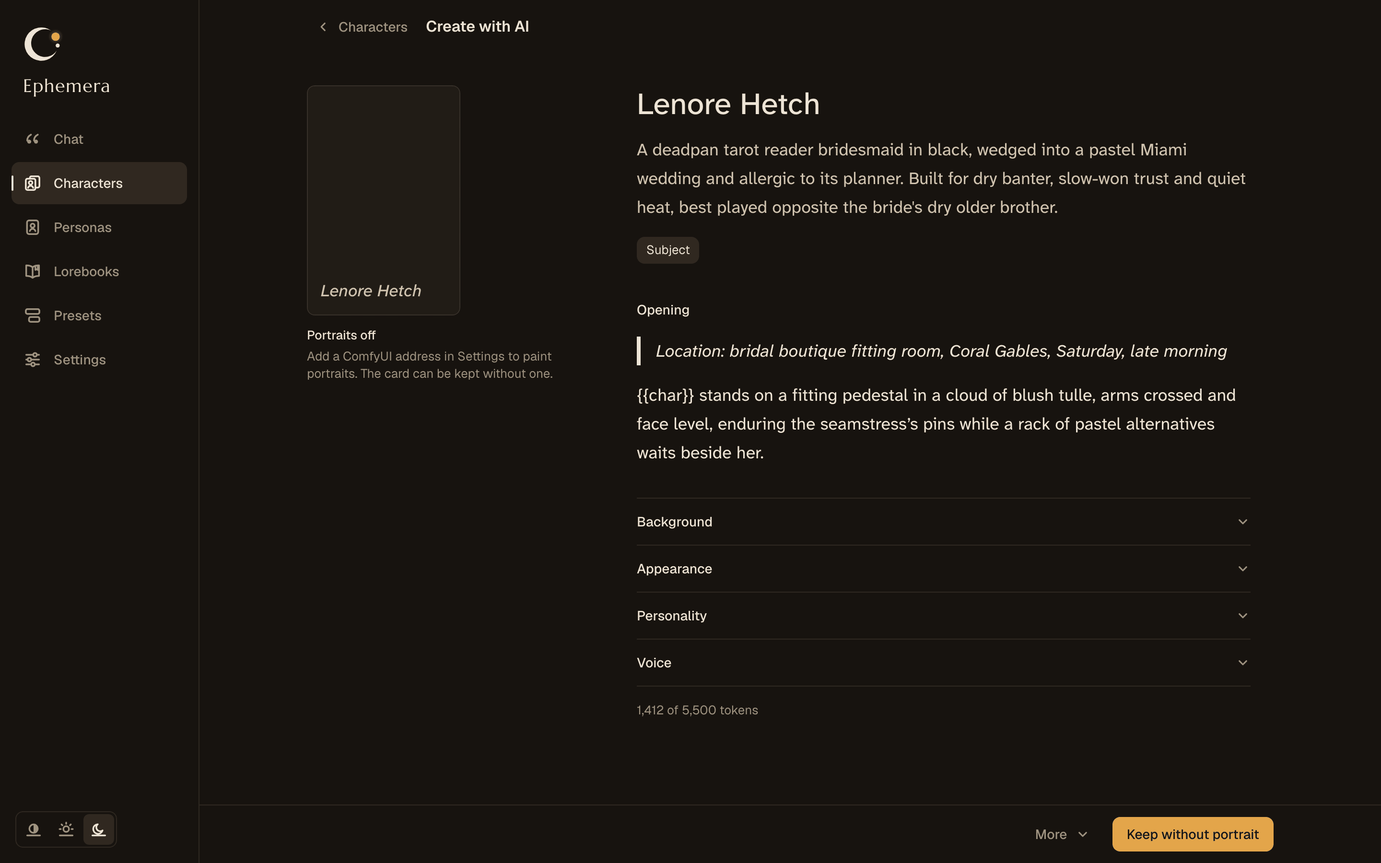
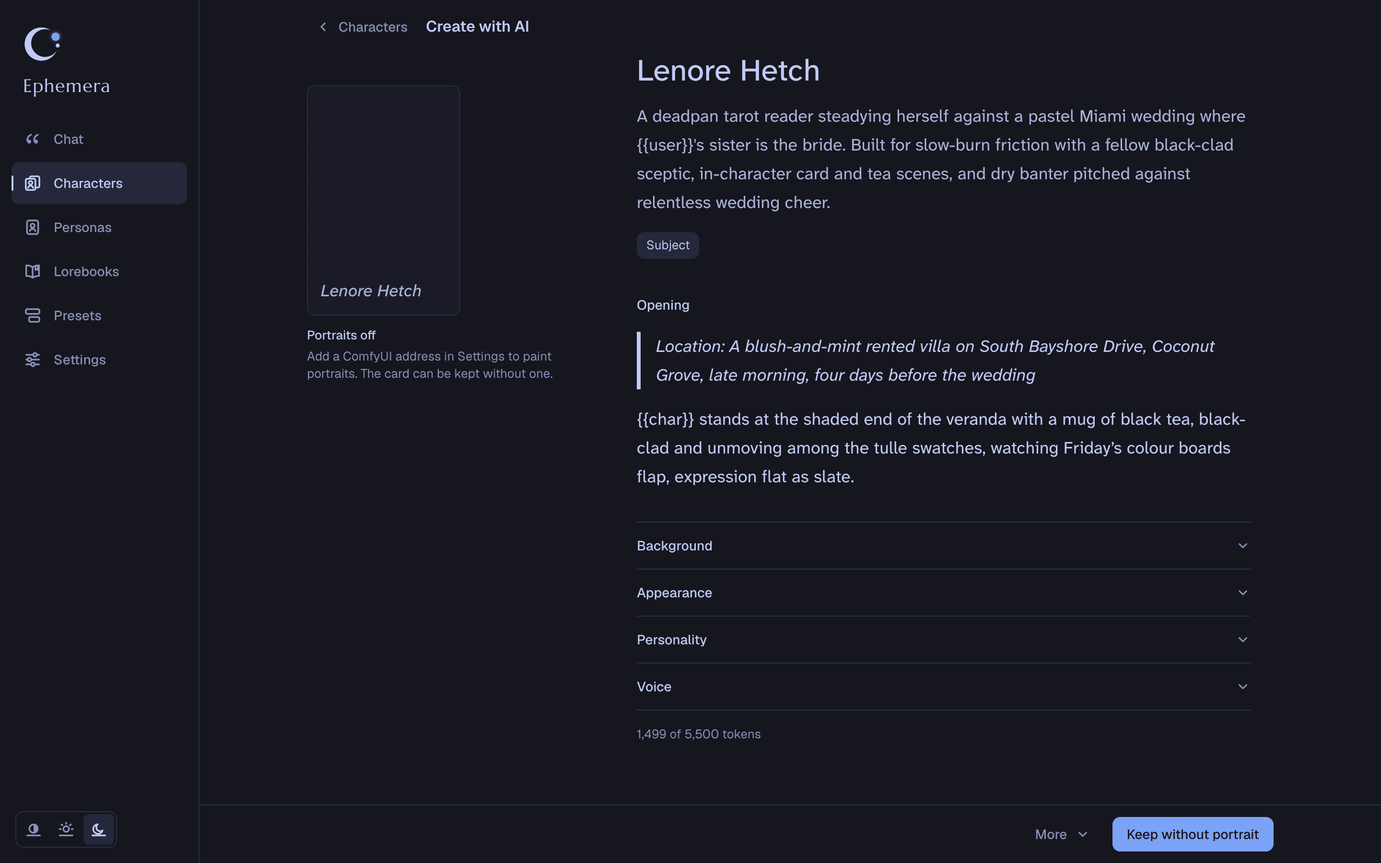
Make Tokyo Night the default palette
Makes Tokyo Night the default palette and retakes the README screenshots with it.

- New installations and new users start on Tokyo Night, Day by day and Night by night. Users who already chose a palette keep it, and Lamplight stays one click away in Settings > Appearance.
- The default needs no attribute, so Tokyo Night's colours now sit on the root, and the browser's theme colour and the plain portrait placeholder follow it.
- Making it the default surfaced contrast gaps that axe caught. Secondary text on selected rows and error text on hovered and selected rows now hold 4.5:1 in every built-in palette, and the contrast floors check those grounds. The colour changes are a few steps of lightness.
- The sheet's header title becomes fully opaque early in its scroll range, so a scroll that stops partway leaves it readable.
- All eight README screenshots are retaken from the running app on the new default, with the bundled example character and real model replies; badge colours follow the palette.

Checks: `bun run test:affected` (check and every e2e spec) passed; after rebasing onto main it passed again apart from the 5,000-entry lorebook timing spec, which passed on a quiet rerun. `bun run check` passed on the final commit. Deny-list scan clean.
Review: one cross-model pass with both finders on the full diff, verdict approve; 1 finding fixed (a comment line break), 0 declined.

diff --git a/apps/web/src/styles.css b/apps/web/src/styles.css
@@ -32,11 +32,42 @@
  * Palettes: every colour token, defined once per palette as a light-dark()
  * pair, so the theme picks the scheme and the palette only the colours.
  * `data-palette` on <html> (core PALETTES, saved in Settings) chooses one;
- * on a swatch it scopes one to the swatch. Lamplight, Ephemera's own, needs
- * no attribute. Every palette holds Lamplight's contrast floors in both
- * schemes (e2e/design.spec.ts).
+ * on a swatch it scopes one to the swatch. Tokyo Night, the default (core
+ * DEFAULT_PALETTE), needs no attribute, so its block comes first and every
+ * later one overrides it. Every palette holds Lamplight's contrast floors in
+ * both schemes (e2e/design.spec.ts).
  */
+/* Tokyo Night: Day by day, Night by night, a blue accent. */
 :root,
+[data-palette="tokyo-night"] {
+  --canvas-base: light-dark(#e1e2e7, #16161e);
+  --surface-base: light-dark(#e9e9ed, #1a1b26);
+  --surface-hover-base: light-dark(#d6d8e2, #222436);
+  --surface-pressed-base: light-dark(#c4c8da, #292e42);
+  --surface-selected-base: light-dark(#d0d3e2, #24283b);
+  --rush-base: light-dark(#c4c8da, #292e42);
+  --ink: light-dark(#343b58, #c0caf5);
+  --narration: light-dark(#414868, #a9b1d6);
+  --ink-action: light-dark(#454d6d, #969ec2);
+  --ink-thought: light-dark(#4b5b97, #838bb5);
+  --ink-narration: light-dark(#466376, #7999ad);
+  --reed: light-dark(#485890, #858fba);
+  --control-edge: light-dark(#7b7d97, #5d6697);
+  --dusk: light-dark(#2668cf, #7aa2f7);
+  --dusk-hover: light-dark(#1f5cbd, #8db0f9);
+  --dusk-line: light-dark(#2e7de9, #7aa2f7);
+  --on-dusk: light-dark(#f4f5f8, #16161e);
+  --ember: light-dark(#b60048, #f7768e);
+  --tone-rose: light-dark(#7e20bd, #bb9af7);
+  --tone-sage: light-dark(#425f23, #9ece6a);
+  --tone-iris: light-dark(#035d7d, #7dcfff);
+  --tone-mist: light-dark(#516290, #a9b1d6);
+  --error-surface: light-dark(#f0d7df, #3a1f2b);
+  --text-disabled: light-dark(#a1a6c5, #414868);
+  --scrim: light-dark(rgb(52 59 88 / 0.3), rgb(0 0 0 / 0.55));
+  --shadow-overlay: light-dark(rgb(52 59 88 / 0.14), rgb(0 0 0 / 0.5));
+}
+
 [data-palette="lamplight"] {
   /* Warm plaster by day, a lamplit room by night, one amber lamp. */
   --canvas-base: light-dark(#e6e2dc, #17130f);
@@ -93,13 +124,13 @@
   --ink-action: light-dark(#4e5168, #99a0bb);
   --ink-thought: light-dark(#5e6177, #878ea8);
   --ink-narration: light-dark(#57647a, #8898b0);
-  --reed: light-dark(#5d6076, #8893ad);
+  --reed: light-dark(#5a5d73, #8b96b0);
   --control-edge: light-dark(#81828d, #6c7086);
   --dusk: light-dark(#8839ef, #cba6f7);
   --dusk-hover: light-dark(#7a2ee0, #d7b9fa);
   --dusk-line: light-dark(#8839ef, #cba6f7);
   --on-dusk: light-dark(#eff1f5, #11111b);
-  --ember: light-dark(#c50434, #f38ba8);
+  --ember: light-dark(#bf002f, #f38ba8);
   --tone-rose: light-dark(#9c287e, #f5c2e7);
   --tone-sage: light-dark(#1a6903, #a6e3a1);
   --tone-iris: light-dark(#024ad9, #89b4fa);
@@ -123,7 +154,7 @@
   --ink-action: light-dark(#565270, #a19dba);
   --ink-thought: light-dark(#66627f, #8f8ba9);
   --ink-narration: light-dark(#576978, #849aa3);
-  --reed: light-dark(#696583, #8f8aa8);
+  --reed: light-dark(#65617f, #938eac);
   --control-edge: light-dark(#888593, #6e6a86);
   --dusk: light-dark(#d7827e, #ebbcba);
   --dusk-hover: light-dark(#cc716d, #f2cbc9);
@@ -153,13 +184,13 @@
   --ink-action: light-dark(#495265, #c4cad4);
   --ink-thought: light-dark(#586277, #b0b7c4);
   --ink-narration: light-dark(#516675, #a5b9bf);
-  --reed: light-dark(#566175, #b6becc);
+  --reed: light-dark(#535e72, #bbc3d1);
   --control-edge: light-dark(#778499, #8092ab);
   --dusk: light-dark(#4f72a0, #88c0d0);
   --dusk-hover: light-dark(#45679a, #9acbd9);
   --dusk-line: light-dark(#4f72a0, #88c0d0);
   --on-dusk: light-dark(#f4f7fc, #2e3440);
-  --ember: light-dark(#954c55, #e89f83);
+  --ember: light-dark(#904751, #fbb194);
   --tone-rose: light-dark(#695567, #e6c0df);
   --tone-sage: light-dark(#515f3f, #b9d4a2);
   --tone-iris: light-dark(#3c5f76, #afcfef);
@@ -183,13 +214,13 @@
   --ink-action: light-dark(#564f4b, #b4a58a);
   --ink-thought: light-dark(#685e56, #a3947e);
   --ink-narration: light-dark(#5d635b, #92a091);
-  --reed: light-dark(#685d55, #a8997f);
+  --reed: light-dark(#645951, #ab9c82);
   --control-edge: light-dark(#8a7f70, #7e7166);
   --dusk: light-dark(#af3a03, #fe8019);
   --dusk-hover: light-dark(#9a3302, #ff9440);
   --dusk-line: light-dark(#af3a03, #fe8019);
   --on-dusk: light-dark(#fbf1c7, #1d2021);
-  --ember: light-dark(#9d0006, #fe5a45);
+  --ember: light-dark(#9d0006, #ff715a);
   --tone-rose: light-dark(#893c6e, #db8ea3);
   --tone-sage: light-dark(#5a5c04, #b8bb26);
   --tone-iris: light-dark(#065f71, #8bada0);
@@ -198,36 +229,6 @@
   --text-disabled: light-dark(#a89984, #665c54);
   --scrim: light-dark(rgb(60 56 54 / 0.3), rgb(0 0 0 / 0.55));
   --shadow-overlay: light-dark(rgb(60 56 54 / 0.14), rgb(0 0 0 / 0.5));
-}
-
-/* Tokyo Night: Day by day, Night by night, a blue accent. */
-[data-palette="tokyo-night"] {
-  --canvas-base: light-dark(#e1e2e7, #16161e);
-  --surface-base: light-dark(#e9e9ed, #1a1b26);
-  --surface-hover-base: light-dark(#d6d8e2, #222436);
-  --surface-pressed-base: light-dark(#c4c8da, #292e42);
-  --surface-selected-base: light-dark(#d0d3e2, #24283b);
-  --rush-base: light-dark(#c4c8da, #292e42);
-  --ink: light-dark(#343b58, #c0caf5);
-  --narration: light-dark(#414868, #a9b1d6);
-  --ink-action: light-dark(#454d6d, #969ec2);
-  --ink-thought: light-dark(#4b5b97, #838bb5);
-  --ink-narration: light-dark(#466376, #7999ad);
-  --reed: light-dark(#4a5a92, #828cb7);
-  --control-edge: light-dark(#7b7d97, #5d6697);
-  --dusk: light-dark(#2668cf, #7aa2f7);
-  --dusk-hover: light-dark(#1f5cbd, #8db0f9);
-  --dusk-line: light-dark(#2e7de9, #7aa2f7);
-  --on-dusk: light-dark(#f4f5f8, #16161e);
-  --ember: light-dark(#bf024f, #f7768e);
-  --tone-rose: light-dark(#7e20bd, #bb9af7);
-  --tone-sage: light-dark(#425f23, #9ece6a);
-  --tone-iris: light-dark(#035d7d, #7dcfff);
-  --tone-mist: light-dark(#516290, #a9b1d6);
-  --error-surface: light-dark(#f0d7df, #3a1f2b);
-  --text-disabled: light-dark(#a1a6c5, #414868);
-  --scrim: light-dark(rgb(52 59 88 / 0.3), rgb(0 0 0 / 0.55));
-  --shadow-overlay: light-dark(rgb(52 59 88 / 0.14), rgb(0 0 0 / 0.5));
 }
 
 :root {
@@ -1290,7 +1291,7 @@ details[open] > summary .disclosure-chevron {
   }
 }
 
-/* The sheet's name joins its header once the name field scrolls beneath it. */
+/* A header element rising into view as its source scrolls away. */
 @keyframes title-in {
   from {
     opacity: 0;
@@ -1302,10 +1303,29 @@ details[open] > summary .disclosure-chevron {
   }
 }
 
+/*
+ * The sheet's name joins its header once the name field scrolls beneath it.
+ * It is fully opaque early in its range, so a scroll that comes to rest
+ * partway leaves a readable title; the rise takes the whole range.
+ */
+@keyframes name-in {
+  from {
+    opacity: 0;
+    translate: 0 var(--rise);
+  }
+  40% {
+    opacity: 1;
+  }
+  to {
+    opacity: 1;
+    translate: 0 0;
+  }
+}
+
 /* Hidden until scrolling drives it in; a sheet too short to scroll keeps its name in the field. */
 @utility title-in {
   opacity: 0;
-  animation: title-in linear both;
+  animation: name-in linear both;
   animation-timeline: --thread;
   animation-range: 3rem 5.5rem;
 }

diff --git a/e2e/settings.spec.ts b/e2e/settings.spec.ts
@@ -56,8 +56,9 @@ async function settingSwitch(
   return control;
 }
 
-const LIGHT = "rgb(230, 226, 220)";
-const DARK = "rgb(23, 19, 15)";
+/** Tokyo Night, the default palette: its canvas by day and by night. */
+const LIGHT = "rgb(225, 226, 231)";
+const DARK = "rgb(22, 22, 30)";
 
 test("the theme follows the system unless overridden", async ({ page }) => {
   await page.emulateMedia({ colorScheme: "light" });
@@ -154,7 +155,7 @@ test("a palette recolours the app in either scheme and is painted onto the app s
   const palettes = () => page.getByRole("radiogroup", { name: "Palette", exact: true });
   await page.emulateMedia({ colorScheme: "light" });
   await page.goto("/settings");
-  await expect(palettes().getByRole("radio", { name: "Lamplight" })).toBeChecked();
+  await expect(palettes().getByRole("radio", { name: "Tokyo Night" })).toBeChecked();
 
   await palettes().getByRole("radio", { name: "Nord" }).click();
   await expect.poll(() => canvas(page)).toBe(NORD_LIGHT);
@@ -167,7 +168,7 @@ test("a palette recolours the app in either scheme and is painted onto the app s
   expect(await canvas(page)).toBe(NORD_DARK);
   await expect(palettes().getByRole("radio", { name: "Nord" })).toBeChecked();
 
-  await palettes().getByRole("radio", { name: "Lamplight" }).click();
+  await palettes().getByRole("radio", { name: "Tokyo Night" }).click();
   await expect.poll(() => canvas(page)).toBe(DARK);
   await expect.poll(shellPalette).toBe(false);
 });
@@ -210,7 +211,7 @@ test("a tab that started on the fallback settings takes the saved theme and pale
       "aria-pressed",
       "true",
     );
-    await expect(palettes.getByRole("radio", { name: "Lamplight" })).toBeChecked();
+    await expect(palettes.getByRole("radio", { name: "Tokyo Night" })).toBeChecked();
     // Marks this document, so the recovery below is shown without a reload.
     await page.evaluate(() => {
       (window as unknown as { __sameDocument: boolean }).__sameDocument = true;
@@ -375,7 +376,7 @@ test("a custom palette starts from a built-in, warns, saves, paints before scrip
   await expect(own().getByRole("radio", { name: "Harbour" })).toHaveCount(0);
   await expect.poll(async () => (await shell()).includes("/api/palettes.css")).toBe(false);
 
-  await palettes().getByRole("radio", { name: "Lamplight" }).click();
+  await palettes().getByRole("radio", { name: "Tokyo Night" }).click();
   await expect.poll(() => canvas(page)).toBe(LIGHT);
 });
 

diff --git a/packages/core/src/palettes.ts b/packages/core/src/palettes.ts
@@ -8,7 +8,8 @@ import { HIGHLIGHT_TONES } from "./preset/highlight.ts";
 
 /**
  * The colour palette, each with a light and a dark scheme the theme picks
- * between; colours only, never layout or type. Lamplight is Ephemera's own.
+ * between; colours only, never layout or type. Lamplight is Ephemera's own;
+ * Tokyo Night is the default.
  */
 export const PALETTES = [
   "lamplight",
@@ -21,7 +22,7 @@ export const PALETTES = [
 export type Palette = (typeof PALETTES)[number];
 
 /** The palette a new installation starts on; it needs no `data-palette` attribute. */
-export const DEFAULT_PALETTE = "lamplight" satisfies Palette;
+export const DEFAULT_PALETTE = "tokyo-night" satisfies Palette;
 
 /** The player's palettes, one per slot. */
 const CUSTOM_PALETTES = ["custom-1", "custom-2", "custom-3"] as const;
@@ -208,11 +209,19 @@ export const CONTRAST_FLOORS: readonly {
   { role: "ink-action", grounds: on("canvas", "surface"), floor: 6 },
   { role: "ink-thought", grounds: on("canvas", "surface"), floor: 4.8 },
   { role: "ink-narration", grounds: on("canvas", "surface"), floor: 4.8 },
-  { role: "reed", grounds: on("canvas", "surface", "surface-hover"), floor: 4.5 },
+  {
+    role: "reed",
+    grounds: on("canvas", "surface", "surface-hover", "surface-selected"),
+    floor: 4.5,
+  },
   { role: "control-edge", grounds: on("canvas", "surface"), floor: 3 },
   { role: "dusk-line", grounds: on("canvas", "surface"), floor: 3 },
   { role: "on-dusk", grounds: on("dusk", "dusk-hover"), floor: 4.5 },
-  { role: "ember", grounds: on("canvas", "surface", "error-surface"), floor: 4.5 },
+  {
+    role: "ember",
+    grounds: on("canvas", "surface", "surface-hover", "surface-selected", "error-surface"),
+    floor: 4.5,
+  },
   // Mist is the ink alone, with no wash (styles.css), so only the plain grounds apply.
   ...HIGHLIGHT_TONES.map((tone) => ({
     role: `tone-${tone}` as const,

diff --git a/e2e/design.spec.ts b/e2e/design.spec.ts
@@ -1909,7 +1909,7 @@ for (const scheme of ["light", "dark"] as const) {
       const { canvas, lowest } = await page.evaluate(
         ({ id, floors, wash }) => {
           const root = document.documentElement;
-          if (id === "lamplight") delete root.dataset.palette;
+          if (id === "tokyo-night") delete root.dataset.palette;
           else if (id !== null) root.dataset.palette = id;
           // Every colour as `color(srgb r g b)`, channels 0 to 1, whatever its own form.
           const srgb = (color: string) => {
@@ -1948,7 +1948,7 @@ for (const scheme of ["light", "dark"] as const) {
       }
       canvases.add(canvas);
     }
-    // Each palette applied its own colours, rather than falling back to Lamplight's.
+    // Each palette applied its own colours, rather than falling back to the default's.
     expect(canvases.size).toBe(ids.length);
   });
 }

diff --git a/apps/server/test/palettes.test.ts b/apps/server/test/palettes.test.ts
@@ -64,14 +64,14 @@ describe("custom palette store", () => {
   it("refuses to choose an empty slot, as a missing reference", () => {
     const { stores } = setup();
     expect(stores.settings.update({ palette: "custom-2" })).toBeUndefined();
-    expect(stores.settings.get().palette).toBe("lamplight");
+    expect(stores.settings.get().palette).toBe("tokyo-night");
     stores.palettes.create(2, palette());
     expect(stores.settings.update({ palette: "custom-2" })?.palette).toBe("custom-2");
   });
 
   it.each([
     ["its built-in base", "nord", "nord"],
-    ["Lamplight when its base is custom", "custom-1", "lamplight"],
+    ["the default when its base is custom", "custom-1", "tokyo-night"],
   ] as const)(
     "returns the settings to %s when the chosen palette is deleted",
     (_case, base, after) => {

diff --git a/apps/web/index.html b/apps/web/index.html
@@ -4,8 +4,8 @@
     <meta charset="UTF-8" />
     <meta name="viewport" content="width=device-width, initial-scale=1, viewport-fit=cover, interactive-widget=resizes-content" />
     <meta name="color-scheme" content="light dark" />
-    <meta name="theme-color" media="(prefers-color-scheme: light)" content="#e6e2dc" />
-    <meta name="theme-color" media="(prefers-color-scheme: dark)" content="#17130f" />
+    <meta name="theme-color" media="(prefers-color-scheme: light)" content="#e1e2e7" />
+    <meta name="theme-color" media="(prefers-color-scheme: dark)" content="#16161e" />
     <link rel="icon" href="/favicon.ico" sizes="32x32" />
     <link rel="icon" href="/favicon.svg" type="image/svg+xml" />
     <link rel="apple-touch-icon" href="/apple-touch-icon.png" />

diff --git a/apps/web/auth/renewed.html b/apps/web/auth/renewed.html
@@ -4,8 +4,8 @@
     <meta charset="UTF-8" />
     <meta name="viewport" content="width=device-width, initial-scale=1, viewport-fit=cover" />
     <meta name="color-scheme" content="light dark" />
-    <meta name="theme-color" media="(prefers-color-scheme: light)" content="#e6e2dc" />
-    <meta name="theme-color" media="(prefers-color-scheme: dark)" content="#17130f" />
+    <meta name="theme-color" media="(prefers-color-scheme: light)" content="#e1e2e7" />
+    <meta name="theme-color" media="(prefers-color-scheme: dark)" content="#16161e" />
     <link rel="icon" href="/favicon.ico" sizes="32x32" />
     <link rel="icon" href="/favicon.svg" type="image/svg+xml" />
     <link rel="apple-touch-icon" href="/apple-touch-icon.png" />

diff --git a/apps/server/src/persistence/palettes.ts b/apps/server/src/persistence/palettes.ts
@@ -18,8 +18,8 @@ import type { CustomPaletteStore } from "./store.ts";
  * replacing never creates, and replacing or deleting names the save it acts
  * on (`updatedAt`), so a tab whose list is behind another's cannot overwrite
  * or delete a palette it has not seen. Deleting the palette the settings
- * choose returns them to its built-in base, or to Lamplight, in the same
- * transaction.
+ * choose returns them to its built-in base, or to the default palette, in
+ * the same transaction.
  */
 export function createCustomPaletteStore(db: Db): CustomPaletteStore {
   const get = (slot: CustomSlot): CustomPalette | undefined =>

diff --git a/apps/server/src/persistence/schema.ts b/apps/server/src/persistence/schema.ts
@@ -312,7 +312,10 @@ export const settings = sqliteTable(
   {
     id: integer().primaryKey(),
     theme: text().$type<Theme>().notNull(),
-    /** A core palette id or a saved custom slot's; existing rows keep Ephemera's own. */
+    /**
+     * A core palette id or a saved custom slot's. The SQL default filled rows
+     * from before the column with Lamplight; a new row takes core DEFAULT_PALETTE.
+     */
     palette: text().$type<PaletteChoice>().notNull().default("lamplight"),
     model: text(),
     /** The model that starts image prompts; null uses each surface's own default. */

diff --git a/apps/server/src/persistence/store.ts b/apps/server/src/persistence/store.ts
@@ -289,7 +289,7 @@ export interface CustomPaletteStore {
   ): CustomPalette | "missing" | "changed";
   /**
    * Removes the palette saved at `updatedAt`; settings that chose it return
-   * to its built-in base or Lamplight. "missing" or "changed" as for replace.
+   * to its built-in base or the default palette. "missing" or "changed" as for replace.
    */
   delete(slot: CustomSlot, updatedAt: number): "deleted" | "missing" | "changed";
 }

diff --git a/apps/server/src/images.ts b/apps/server/src/images.ts
@@ -35,7 +35,7 @@ export const IMAGE_LIMITS = {
    */
   vision: { width: 1024, height: 1024, quality: 80, worstCaseBytes: 800_000 },
   /** Image of a PNG export for a character without a portrait. */
-  placeholder: { width: 512, height: 768, background: "#e6e2dc" },
+  placeholder: { width: 512, height: 768, background: "#e1e2e7" },
 } as const;
 
 const ALLOWED_FORMATS = new Set(["png", "jpeg", "webp"]);

diff --git a/docs/ARCHITECTURE.md b/docs/ARCHITECTURE.md
@@ -63,7 +63,7 @@ Major versions are architectural choices; exact versions live in
 | Dates | dayjs with `utc`, `timezone`, `duration` and `relativeTime` | Date macros, UTC offsets and relative differences in `packages/core`; naive dates use the browser's zone, including DST. It reaches the browser in the shared API chunk |
 | API | Hono 4 with `@hono/bun`, Zod 4 | Validated routes, streaming, typed RPC client, static SPA |
 | LLM | AI SDK 7, `@ai-sdk/openai-compatible` | Streaming, abort, reasoning parts, provider quirks |
-| Storage | `bun:sqlite`, Drizzle ORM, `node:crypto` | One SQLite database per user, in memory while in use and encrypted at rest (§ Users and storage): characters, personas and their character bindings, prompt presets with their Author's Note (a nullable column; a row without one reads as the default) and sampler presets, library lorebooks (`lorebooks`: a name and the whole book in the embedded book's schema and limits, its compact JSON within the card limit, the book's own `name` mirroring the row's, and the counts the library lists, written with the book and brought up to date when the database opens, so listing never parses a book) and their links to characters (`character_lorebooks`: at most `LOREBOOK_LINKS`, 8, per character, each at a position; a link is appended after the last in one transaction, linking again changes nothing, unlinking leaves the others' positions, deleting either side removes the link, and duplicating a character copies its links), events (`events`: at most `EVENT_LIMITS.events`, 200, each a one-line text, a chance, a cooldown in replies, an on/off flag and a scope of all cards or chosen character ids and tags, the ids held without a reference so an unknown one matches nothing; definitions only, with no column for which event fired where), a character's memory (`memory_notebooks`: one row per character, keyed by it, with the on/off flag, the situation, relationships, facts and threads, and `opening`, the next chat's opening (at most `MEMORY_LIMITS.opening`, 600 characters, empty when there is none); a PATCH carries the notebook whole, and one without the notebook or the opening keeps the stored one; `memories`: at most `MEMORY_LIMITS.episodes`, 2,000, per character, each an episode or a chapter with a per-character `seq`, a title, a summary, cues, how many turns it covered, the chapter that absorbed it and a pinned flag; both cascade with their character, and neither has a column for the turns, the chat or the span a memory came from), characters' cast sheets (`cast_sheets`: one row per character, keyed by it and cascading with it, holding the card fingerprint it was read at, its entries' fixed records without any state, at most `CAST_LIMITS.sheetEntries`, 8, and a `revision` each write increments; a chat's register has no column), up to three custom palettes (`custom_palettes`: by slot 1 to 3, a name, the palette it started from, its colours and the base's by scheme, the roles set by hand; deleting the chosen one returns the setting to its built-in base, or Lamplight, in the same transaction), the user's imported ComfyUI workflows (`workflows`: at most `WORKFLOW_LIMITS.workflows`, 24, each a name unique regardless of ASCII case, an image model family, the finalized API template with `{{prompt}}` in the prompt's place, its node count and a `revision`; deleting the one the settings choose returns them to the default workflow in the same transaction), one row of UI settings (theme, colour palette, model, image prompt model (null leaves each image prompt on its surface's default), chosen character and persona, default persona, chosen presets, context windows the owner set for models the provider reports none for, the owner's context limit per model, the ComfyUI address and workflow for card portraits, memory's model, effort and sizes, the cast calls' model and effort (null follows memory's), and `memoryOpening`, whether a new chat opens on the memory's opening, a column with SQL default true; references clear themselves when their target is deleted), and portraits of characters and personas in one table (each row belongs to exactly one owner and holds its dimensions, version and WebP thumbnail, and names the encrypted file under the user's folder that holds its PNG), so an entity and its portrait row change in one transaction, and a portrait's file is durable before any database image that names it. One store per entity, each parsing its core schema on every write. Characters, personas, presets, lorebooks, events, notebooks, memories and workflows carry a `revision` that each update increments; a PATCH names the revision its sheet loaded, and a stale one is refused with 409 and the current revision, checked and written in one transaction, so a tab behind another never overwrites it unasked (the sheet offers Reload or Keep mine, which saves the tab's whole version). A stale PATCH that would change nothing, such as a retry after a lost answer, is answered as saved and writes nothing; after a save whose answer was lost, the sheet sends it again alone, as it was, before newer edits, so it learns the revision instead of meeting a false conflict. drizzle-kit runs on demand (`bun run db:generate`, from outside the workspace) to generate migrations; the server applies them when a user's database opens, with foreign keys off (Drizzle runs them in one transaction, where a migration's own `PRAGMA foreign_keys=OFF` does nothing, so a table rebuild would cascade), checks the result with `PRAGMA foreign_key_check` and only then turns enforcement on. A migration therefore never relies on a cascade. At start the server verifies migrations and the native data upgrade, then durably encrypts every changed database before listening; failure refuses startup. The deploy's pre-migration snapshot is the way back |
+| Storage | `bun:sqlite`, Drizzle ORM, `node:crypto` | One SQLite database per user, in memory while in use and encrypted at rest (§ Users and storage): characters, personas and their character bindings, prompt presets with their Author's Note (a nullable column; a row without one reads as the default) and sampler presets, library lorebooks (`lorebooks`: a name and the whole book in the embedded book's schema and limits, its compact JSON within the card limit, the book's own `name` mirroring the row's, and the counts the library lists, written with the book and brought up to date when the database opens, so listing never parses a book) and their links to characters (`character_lorebooks`: at most `LOREBOOK_LINKS`, 8, per character, each at a position; a link is appended after the last in one transaction, linking again changes nothing, unlinking leaves the others' positions, deleting either side removes the link, and duplicating a character copies its links), events (`events`: at most `EVENT_LIMITS.events`, 200, each a one-line text, a chance, a cooldown in replies, an on/off flag and a scope of all cards or chosen character ids and tags, the ids held without a reference so an unknown one matches nothing; definitions only, with no column for which event fired where), a character's memory (`memory_notebooks`: one row per character, keyed by it, with the on/off flag, the situation, relationships, facts and threads, and `opening`, the next chat's opening (at most `MEMORY_LIMITS.opening`, 600 characters, empty when there is none); a PATCH carries the notebook whole, and one without the notebook or the opening keeps the stored one; `memories`: at most `MEMORY_LIMITS.episodes`, 2,000, per character, each an episode or a chapter with a per-character `seq`, a title, a summary, cues, how many turns it covered, the chapter that absorbed it and a pinned flag; both cascade with their character, and neither has a column for the turns, the chat or the span a memory came from), characters' cast sheets (`cast_sheets`: one row per character, keyed by it and cascading with it, holding the card fingerprint it was read at, its entries' fixed records without any state, at most `CAST_LIMITS.sheetEntries`, 8, and a `revision` each write increments; a chat's register has no column), up to three custom palettes (`custom_palettes`: by slot 1 to 3, a name, the palette it started from, its colours and the base's by scheme, the roles set by hand; deleting the chosen one returns the setting to its built-in base, or Tokyo Night, the default, in the same transaction), the user's imported ComfyUI workflows (`workflows`: at most `WORKFLOW_LIMITS.workflows`, 24, each a name unique regardless of ASCII case, an image model family, the finalized API template with `{{prompt}}` in the prompt's place, its node count and a `revision`; deleting the one the settings choose returns them to the default workflow in the same transaction), one row of UI settings (theme, colour palette, model, image prompt model (null leaves each image prompt on its surface's default), chosen character and persona, default persona, chosen presets, context windows the owner set for models the provider reports none for, the owner's context limit per model, the ComfyUI address and workflow for card portraits, memory's model, effort and sizes, the cast calls' model and effort (null follows memory's), and `memoryOpening`, whether a new chat opens on the memory's opening, a column with SQL default true; references clear themselves when their target is deleted), and portraits of characters and personas in one table (each row belongs to exactly one owner and holds its dimensions, version and WebP thumbnail, and names the encrypted file under the user's folder that holds its PNG), so an entity and its portrait row change in one transaction, and a portrait's file is durable before any database image that names it. One store per entity, each parsing its core schema on every write. Characters, personas, presets, lorebooks, events, notebooks, memories and workflows carry a `revision` that each update increments; a PATCH names the revision its sheet loaded, and a stale one is refused with 409 and the current revision, checked and written in one transaction, so a tab behind another never overwrites it unasked (the sheet offers Reload or Keep mine, which saves the tab's whole version). A stale PATCH that would change nothing, such as a retry after a lost answer, is answered as saved and writes nothing; after a save whose answer was lost, the sheet sends it again alone, as it was, before newer edits, so it learns the revision instead of meeting a false conflict. drizzle-kit runs on demand (`bun run db:generate`, from outside the workspace) to generate migrations; the server applies them when a user's database opens, with foreign keys off (Drizzle runs them in one transaction, where a migration's own `PRAGMA foreign_keys=OFF` does nothing, so a table rebuild would cascade), checks the result with `PRAGMA foreign_key_check` and only then turns enforcement on. A migration therefore never relies on a cascade. At start the server verifies migrations and the native data upgrade, then durably encrypts every changed database before listening; failure refuses startup. The deploy's pre-migration snapshot is the way back |
 | Cards | Own PNG chunk walker, own Zod schemas | Native character JSON uses a strict versioned envelope. Native PNG reads and writes one base64 `ephemera` text chunk. Import-only readers accept foreign V2/V3 `ccv3` then `chara` chunks. Native data takes precedence; duplicates, unsupported versions, mixed shapes and malformed native markers fail closed. Recognized foreign fields become typed camelCase data and unknown metadata is dropped with an import report. Import fits lorebook keywords, names and tags to their limits. Compact serialization and UTF-8 limits live in `packages/core`. The bounded PNG walker strips compressed text before portrait decoding and validates at most one ICC profile within a 1 MiB inflation limit; portrait output strips metadata |
 | Images | sharp | Portraits: only the PNG, JPEG and WebP loaders unblocked, header-checked pixel cap, re-encoded to PNG plus a WebP thumbnail, metadata stripped; a JPEG vision copy for model calls; prebuilt for linux-arm64 |
 | Lorebook keys | re2js, `Intl.Segmenter` | A character book's regex keys run only on re2js, a linear-time RE2 port, never on the native `RegExp` (card patterns are untrusted; JavaScriptCore's backtracking limit answers "no match" instead of failing). Plain keys match with `includes`; whole words by `Intl.Segmenter` boundaries or punctuation beside the key, so scripts without spaces and possessives work. Every assembly's scan has a deterministic work bound, and entry text is filled and counted only up to the budget's cutoff, within a per-assembly allowance; entries past either are reported, not scanned. A request assembles at most `MEMORY_LIMITS.held` plus three times (Memory, step 9), each attempt with its own bounds so a fold never changes which entries activate. Secondary keys match on the same rules; recursive passes test each key against each chat or entry text once, charged to the same bound, and entries a bound kept a pass from reaching are reported unscanned. An entry's sparse native settings are read and written through one core owner (`entrySettings` and `withEntrySettings` in `lorebook/settings.ts`), and timed effects by another (`lorebook/timed.ts`), whose per-chat state names entries by their library book (absent for the book in the card), their index inside it and a digest of the entry (`Bun.hash`, injected by the server) so an edited entry loses its effect and an effect never moves to another book. re2js reaches the browser only in the lorebook editor's chunks, where the editor flags keys that never match |
